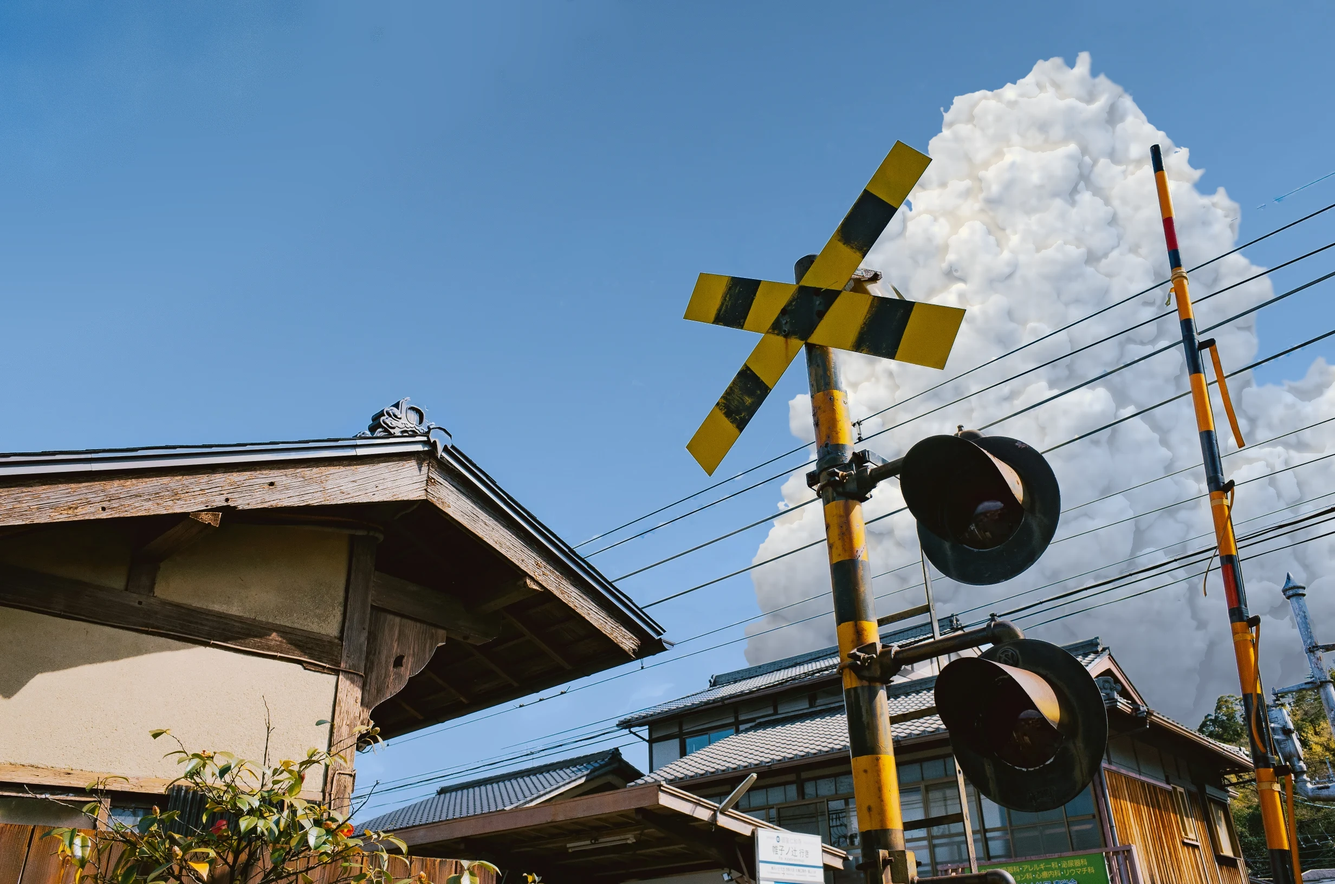
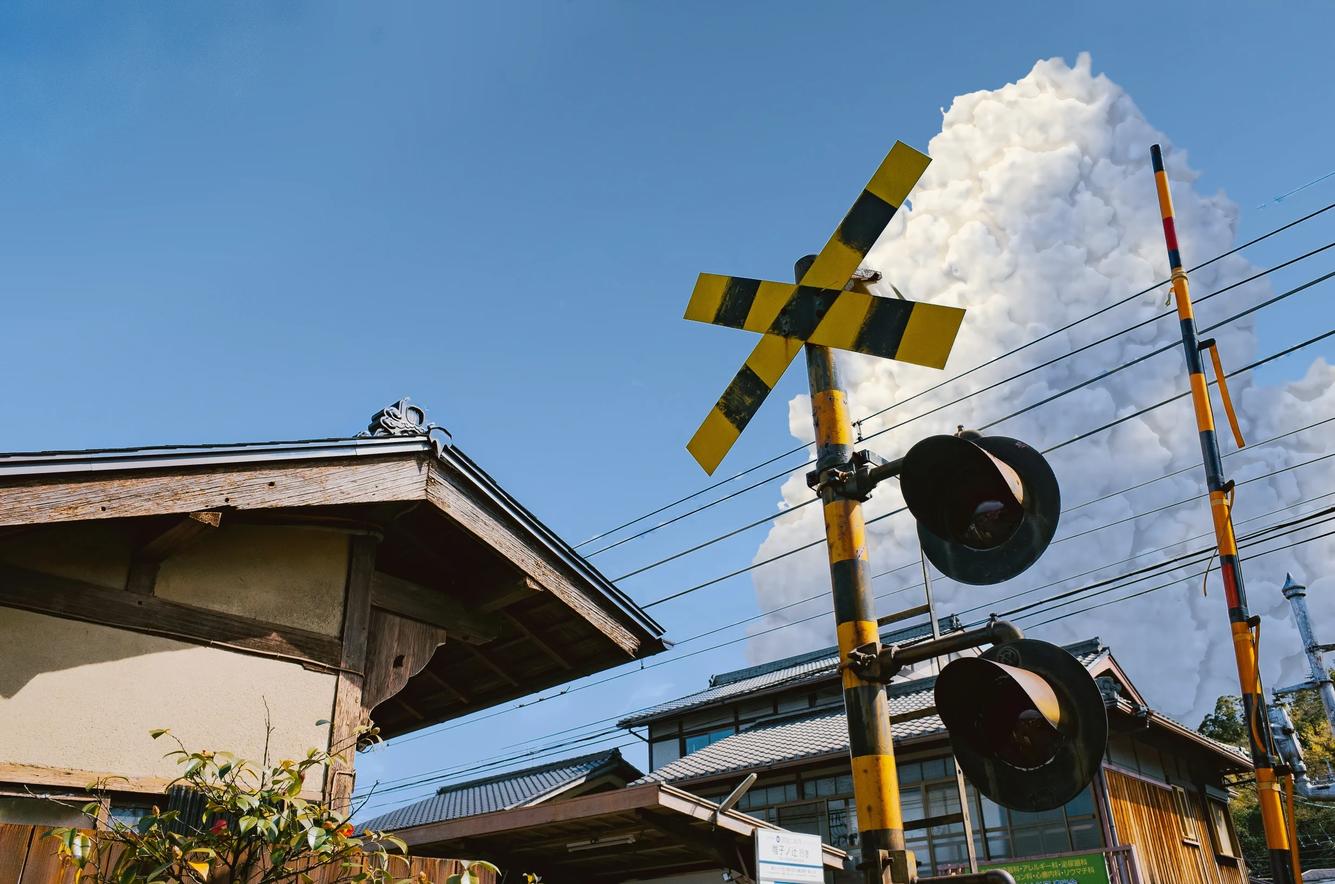
Lab: climb curve-mirror round 3
Claude-Session: https://claude.ai/code/session_01RqENhngNCzDFmJWDZueXGV

diff --git a/tools/depth/bakes/curve-mirror/clouds.py b/tools/depth/bakes/curve-mirror/clouds.py
@@ -438,7 +438,12 @@ def relight(lin, sky, ray, right, up, sun, ppd, aspect=None, keep=None, white=No
 # the height field (a floret's crisp shade on the one under it, and the
 # light the body carries by scattering), the tower's round and its far side,
 # the folds in their neighbours' shade, the base a darker blue-grey belly;
-# the photograph's own puff texture quilted over it as a detail layer; the
+# the photograph's own puff texture quilted over it as a detail layer; all of
+# that then carried, as billows only (over its own local mean), on the
+# massing's form light (_form): the whole body read as a few big domes, a
+# warm-neutral key on each tower's upper left and the skylight's blue on its
+# right flank, in the folds between and over its lower third, so it reads as
+# one lit volume with one shade side, not a textured fill; the
 # edge crisp and lumpy where it is sunlit, soft, thin and skylight-blue in
 # the lee; and laid over the sky through a shrunk matte, unmixed at every
 # wire and eave (sky_grade.lay_over).
@@ -487,6 +492,20 @@ EDGE_W = (0.25, 0.6)  # the edge's light (sun_l) from lee to sunlit
 THIN_PX = 10.0  # px of thickness over which the lee edge's vapour is thin
 LEE_VEIL = 1.18  # the thin vapour of the lee edge: the sky behind it, lifted by the light it scatters
 SHRINK = 2.5  # px the open-sky matte is shrunk before the cloud is laid over it
+# the form light: the massing as a few big domes, lit as one body (see _form)
+F_SCALE = 0.125  # the form's height field is the matte's distance field blurred at this share of the massing's width
+F_DOME = 1.0  # a dome's radius, of that blur: the limb turns away over this far in from the edge
+F_EDGE = 0.25  # the distance field's smoothing for that turn, of the form's scale
+F_TURRET = (1.0, 0.3)  # the towers' big lobes as their own domes on the form: their slope's share, and their blur, of the form's scale
+F_LZ = 0.45  # the sun's share on a face turned to the viewer, at least (a cloud scatters forward)
+F_TILT = 1.7  # the sun's turn across the image (its x) for the form, of the true one: the house's shade says left
+F_WRAP = 0.45  # the light's wrap round the form (scattering)
+F_LIT = (0.36, 0.92)  # the form's turn to the sun (wrapped): in shade under here, in full sun over here
+F_GAP = (10.0, 60.0, 0.6, 1.2)  # a fold between domes: px under the domes round it from, full by, the sun it loses there, and how wide a fold is, of the form's scale
+F_LOW = (0.62, 0.9, 0.8)  # the lower part of the massing (share of its height, top 0): from, full by, and the sun it loses
+F_KEY = np.array([0.845, 0.80, 0.715], np.float32)  # the sunlit face: a warm neutral, R over G over B (sRGB ~237, 231, 220; its billows to ~242)
+F_SHADE = np.array([0.255, 0.345, 0.52], np.float32)  # the shade side: the skylight's blue, ~1.2 stop under (sRGB ~138, 158, 190), the film lifting it to about a stop
+F_DETAIL = (24.0, 0.62, 1.3)  # the billows over the form: px (sigma) they are taken over, and the ratio's floor and ceiling
 
 
 def _clear(lin, sky, s):
@@ -661,6 +680,66 @@ def _sun_path(h, ux, uy, kz, s):
     return cv2.GaussianBlur(od * step, (0, 0), 1.5 * s)
 
 
+def _form(body, h0, lx, ly, lz, s):
+    """The massing's form light: how much of the sun each pixel's face takes,
+    0..1, read off the whole body at the scale of its towers, not its
+    billows. Lit off the billows alone (their normals, the sun marched
+    through them), the light was the same on every flank of the tower: a
+    gentle fall from top to base under one even texture, a textured fill,
+    not a lit volume. So: the matte's distance field, rolled off into a dome
+    (F_DOME) and blurred at F_SCALE of the massing's width, with the towers'
+    big lobes on it as their own domes (F_TURRET), is the form's height
+    field; its normal against the sun (turned a little more across the image,
+    F_TILT, the left of the frame being where the house's shade says it
+    is), wrapped (F_WRAP) and keyed (F_LIT), is each dome's lit face, upper
+    left, and its shade side, lower right; a fold between the domes (the
+    height under its neighbourhood's) and the massing's lower part (F_LOW)
+    lose the sun to their neighbours and to the body over them."""
+    H, W = body.shape
+    cols = np.nonzero(body.any(0))[0]
+    rows = np.nonzero(body.any(1))[0]
+    sig = max(F_SCALE * float(cols[-1] - cols[0] + 1), 8.0 * s)
+    dt = cv2.distanceTransform((body > 0).astype(np.uint8), cv2.DIST_L2, 5).astype(np.float32)
+    # the dome: its turn away from the viewer by how near the pixel stands to
+    # the body's edge (the distance field, smoothed, against the dome's
+    # radius: a sphere's profile, so the limb turns fully away), toward the
+    # outward way of the distance field blurred at the form's scale (a bulge
+    # of the outline smaller than that is a billow, not a face)
+    R = F_DOME * sig
+    d = _nblur(dt, F_EDGE * sig, body)
+    hm = cv2.GaussianBlur(dt, (0, 0), sig)
+    gy, gx = np.gradient(hm)
+    gl = np.maximum(np.hypot(gx, gy), 1e-6)
+    m = 1 - np.clip(d / R, 0, 1)
+    ox, oy = -gx / gl * m, gy / gl * m  # (+y up)
+    # and the towers' big lobes, each a dome of its own on the form
+    ht = cv2.GaussianBlur(np.maximum(h0, 0) * body, (0, 0), F_TURRET[1] * sig)
+    ty, tx = np.gradient(ht)
+    n = np.stack([ox - F_TURRET[0] * tx, oy + F_TURRET[0] * ty, np.sqrt(np.maximum(1 - m * m, 0))], -1)
+    n /= np.maximum(np.linalg.norm(n, axis=-1, keepdims=True), 1e-6)
+    hm = hm + F_TURRET[0] * ht
+    L = np.array([lx * F_TILT, ly, max(lz, F_LZ)], np.float32)
+    L /= np.linalg.norm(L)
+    ndl = n @ L
+    lit = kit.smoothstep(F_LIT[0], F_LIT[1], np.clip((ndl + F_WRAP) / (1 + F_WRAP), 0, 1))
+    # the folds between the domes, in their neighbours' shade
+    # (the lobes' heights, over the body alone, closed at the form's scale:
+    # a valley between two domes fills, the body's own falling edge does not)
+    hl = _nblur(np.maximum(h0, 0) * body, F_TURRET[1] * sig, body) * body
+    r = max(round(F_GAP[3] * sig), 1)
+    cav = cv2.morphologyEx(hl, cv2.MORPH_CLOSE, cv2.getStructuringElement(cv2.MORPH_ELLIPSE, (2 * r + 1, 2 * r + 1))) - hl
+    cav = cv2.GaussianBlur(cav, (0, 0), 0.3 * sig)
+    lit = lit * (1 - F_GAP[2] * kit.smoothstep(F_GAP[0] * s, F_GAP[1] * s, cav))
+    # and the lower part, under the body
+    y0 = float(rows[0])
+    y1 = max(t["tiers"][0][0] for t in TOWERS) * s
+    yy = np.broadcast_to(((np.arange(H, dtype=np.float32) - y0) / max(y1 - y0, 1.0))[:, None], (H, W))
+    lit = lit * (1 - F_LOW[2] * kit.smoothstep(F_LOW[0], F_LOW[1], yy))
+    inner = cv2.erode(body, np.ones((3, 3), np.uint8))
+    lit = lit * inner + kit.pushpull(lit, inner) * (1 - inner)
+    return np.clip(lit, 0, 1).astype(np.float32), hm
+
+
 def massing(lin, sky, right, up, sun, ppd):
     """The plate's clouds cleared and the towering cumulus built in their
     place. lin: linear RGB; sky: the 0..1 open-sky matte; right, up: per-pixel
@@ -752,6 +831,18 @@ def massing(lin, sky, right, up, sun, ppd):
     tex = tex * kit.smoothstep(0.0, 6.0 * s, dt)
     C = C * np.exp(TEX_K * tex * (0.45 + 0.55 * sun_l))[..., None]
 
+    # 4b. the form: the massing lit as a few big domes, a warm-neutral key on
+    # each tower's upper left, the skylight's blue on its right flank, in the
+    # folds between and over its lower part; the billows (the light above,
+    # over its own F_DETAIL px mean) ride on it
+    form, hm = _form(body, h0, lx, ly, lz, s)
+    Cm = F_SHADE[None, None] + (F_KEY - F_SHADE)[None, None] * form[..., None]
+    bm = np.maximum(body, cv2.GaussianBlur(body, (0, 0), 2.0 * s))
+    Cb = cv2.GaussianBlur(C * bm[..., None], (0, 0), F_DETAIL[0] * s) / np.maximum(cv2.GaussianBlur(bm, (0, 0), F_DETAIL[0] * s), 1e-3)[..., None]
+    C = Cm * np.clip(C / np.maximum(Cb, 1e-4), F_DETAIL[1], F_DETAIL[2])
+    # (the edges' light, below, is the form's as much as the billows')
+    sun_l = 0.4 * sun_l + 0.6 * form
+
     # 5. the edge. Sunlit (a floret turned to the sun, at the upper left):
     # crisp, a px of feather, its lumps standing on the cobalt. In shade
     # (the lee side, the lower right): eroded, soft, thinned, and the thin
@@ -787,7 +878,7 @@ def massing(lin, sky, right, up, sun, ppd):
     out = sky_grade.lay_over(lin, new, sky, SHRINK * s)
     out = np.clip(out, 0, None).astype(np.float32)
     if os.environ.get("CLOUDS_DEBUG"):  # a directory: each of the light's maps, as a png
-        for nm, x in (("big", lam_big), ("far", far), ("lit", sun_l), ("tr", tr), ("lam", lam), ("ao", ao), ("wsun", w_sun), ("op", op), ("tex", 0.5 + 2 * tex)):
+        for nm, x in (("form", form), ("hm", hm / max(float(hm.max()), 1e-3)), ("big", lam_big), ("far", far), ("lit", sun_l), ("tr", tr), ("lam", lam), ("ao", ao), ("wsun", w_sun), ("op", op), ("tex", 0.5 + 2 * tex)):
             cv2.imwrite(os.path.join(os.environ["CLOUDS_DEBUG"], nm + ".png"), np.clip(x * 255, 0, 255).astype(np.uint8))
     return out, {"a": op * np.clip(sky, 0, 1), "h": h / max(float(h.max()), 1e-3), "lit": sun_l, "tr": tr, "rm": wc, "base": base,
                  "tex": np.clip(0.5 + 2.0 * tex, 0, 1), "w_sun": w_sun, "lam": lam, "ao": ao, "Lw": float(kit.luma(TOP[None, None])[0, 0])}
